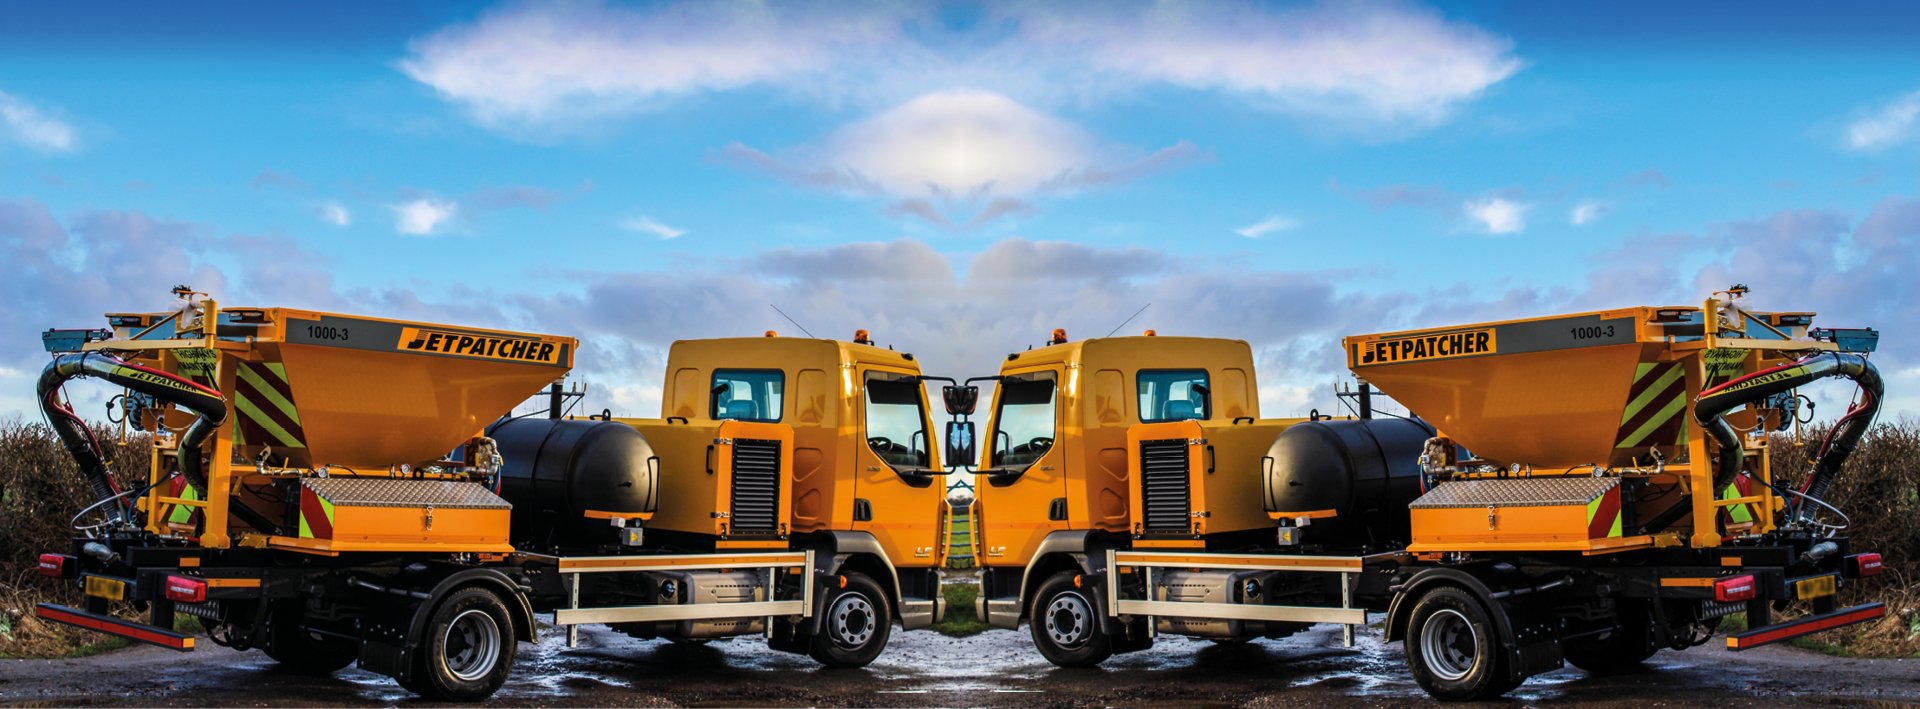
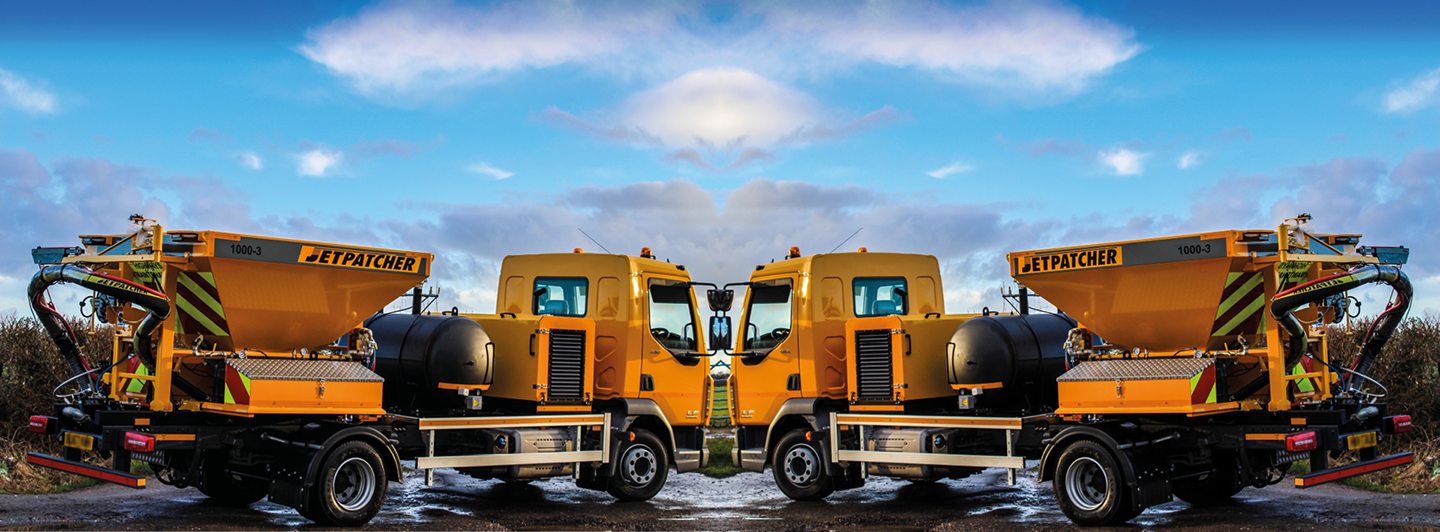
Update Export Images

Changed region(s): [[0.7188, 0.4812, 0.75, 0.5113], [0.25, 0.4812, 0.2812, 0.5113]]

diff --git a/css/styles.css b/css/styles.css
@@ -58,7 +58,7 @@ sup.meter-sup {
   padding-top: 18.5rem;
   background-size: cover;
   background-position: center;
-  background-image: url("../img/faq-head.png");
+  background-image: url("../img/faq-head-new.jpg");
 }
 #csca-mast {
   height: 35rem;
@@ -93,9 +93,8 @@ sup.meter-sup {
 #export-mast {
   height: 35rem;
   padding-top: 18.5rem;
-  background-image: url("../img/carousel-uk.png"), url("../img/carousel-uk-blur.png");
-  background-size: contain, cover;
-  background-repeat: no-repeat;
+  background-image: url("../img/export-banner.png");
+  background-size: cover;
   background-position: center;
 }
 #range-mast {
@@ -270,6 +269,26 @@ ul.simple-list > li:before {
   margin-top: 50px;
   margin-bottom: 50px;
 }
+#export-img-1 {
+  background-image: url(../img/export-img-1.png);
+  height: 600px;
+  background-size: cover;
+  background-position: bottom;
+  max-width: 55%;
+  margin-right: 40px;
+  border-radius: 6px;
+}
+#export-img-2 {
+  background-image: url(../img/export-img-2.png);
+  height: 700px;
+  background-size: cover;
+  background-position: bottom;
+  max-width: 100%;
+  margin-right: 40px;
+  border-radius: 6px;
+}
+
+
 
 #video {
   padding-top: 30px;
@@ -577,6 +596,9 @@ ul.simple-list > li:before {
 @media (max-width: 1025px) {
   .jumbotron {
     padding: 4rem 2rem;
+  }
+    #export-img-1 {
+    max-width: 100%;
   }
 }
 

diff --git a/export.html b/export.html
@@ -135,7 +135,7 @@
   <!-- Export Content -->
   <section id="export-content">
     <div class="container contain-pad">
-      <div class="col-md-8 side-by-uk" id="uk-img">
+      <div class="col-md-8 side-by-uk" id="export-img-1">
       </div>
       <div class="col-md-4 side-by-uk">
         <h5>WHY JETPATCHER<sup>TM</sup>?</h5>
@@ -159,6 +159,8 @@
           <p>The equipment is supplied partially assembled, ready to install to your truck cab or chassis. We can provide, or arrange for, an approved installer to be present to supervise installation and provide operator training. Costs on application.</p>
           <p>We provide a technical advisory supervisor for materials and methods. A full 12 month warranty is provided on equipment (fair wear and tear excepted). The company maintains a full inventory of spare parts.</p><br>
 
+      </div>
+      <div class="col-md-8 side-by-uk" id="export-img-2">
       </div>
     </div>
   </section>
